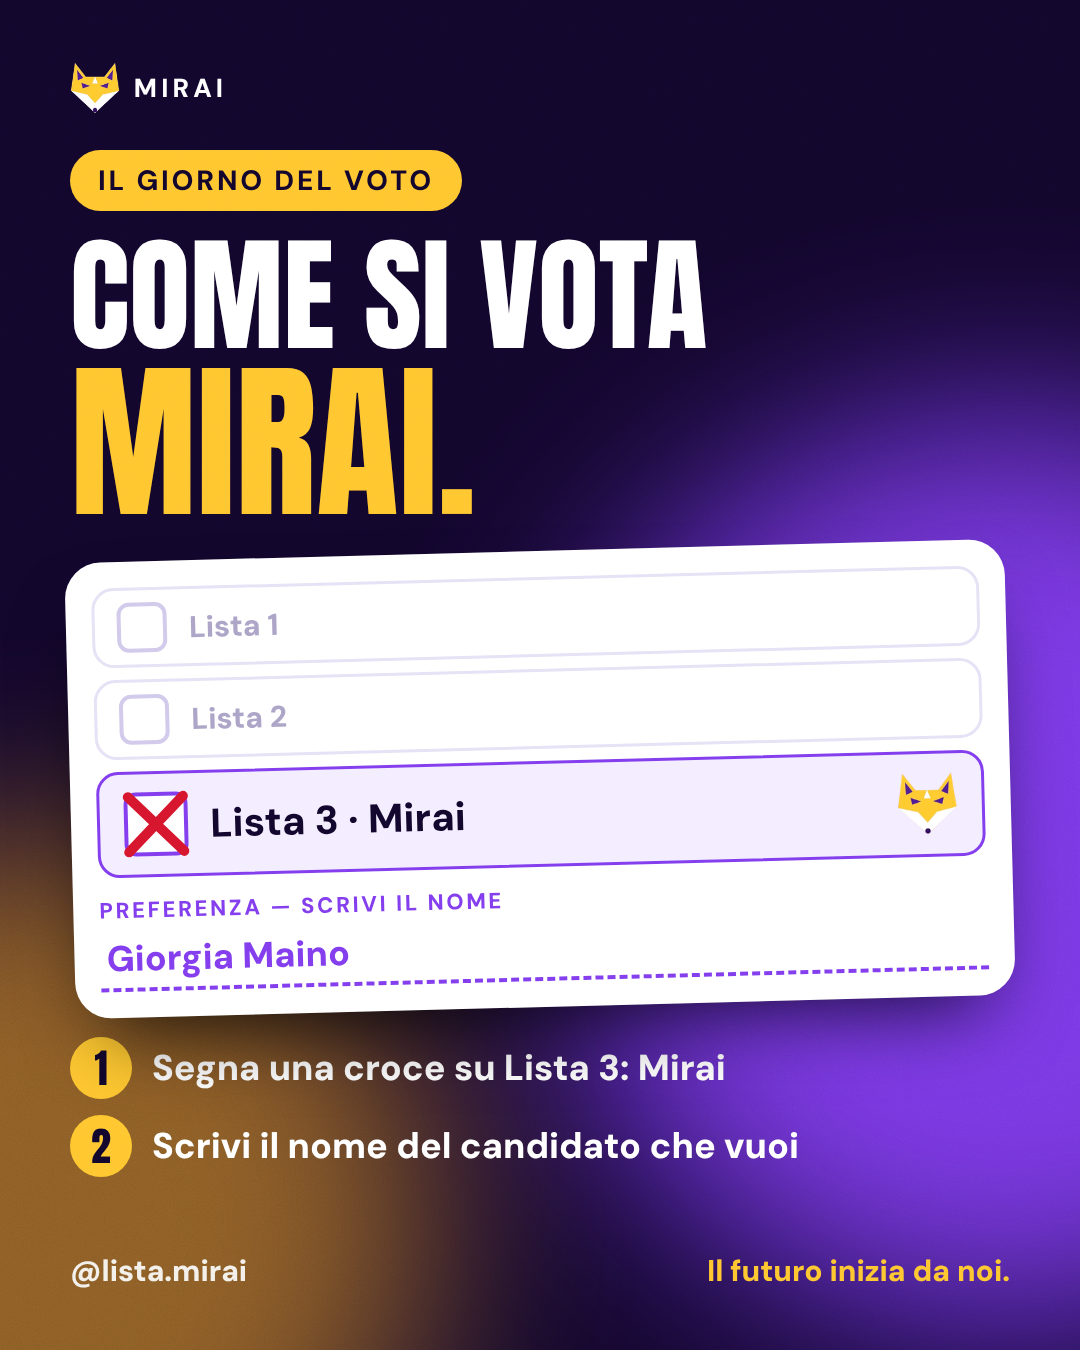
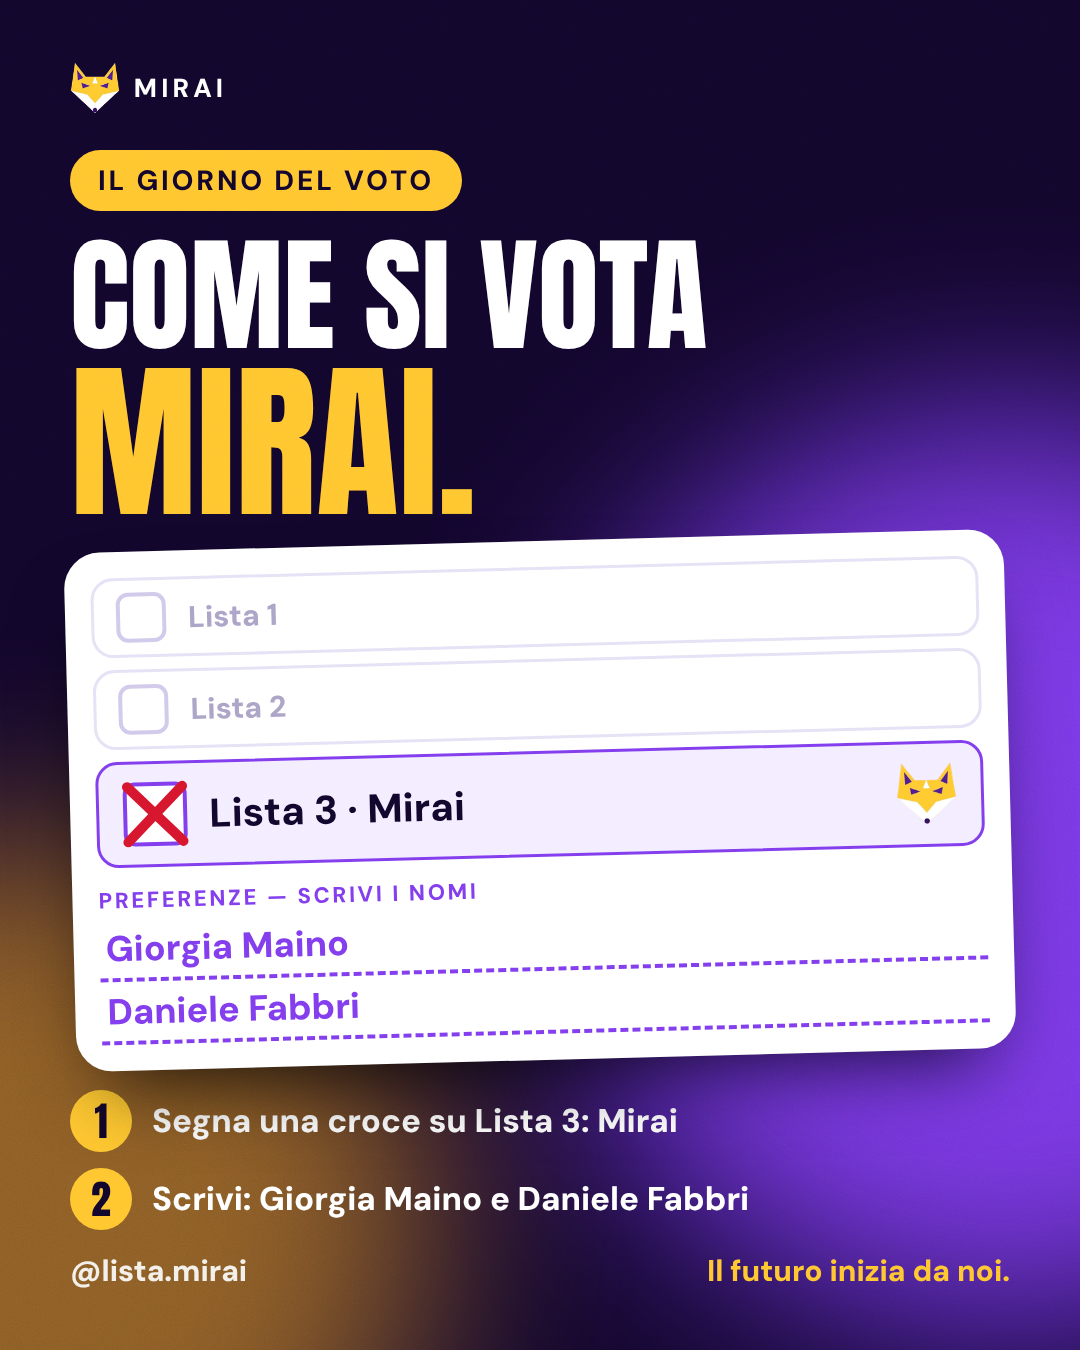
Social: voto con preferenze Giorgia Maino e Daniele Fabbri
Claude-Session: https://claude.ai/code/session_01GjWaSYZkqZzSe8a8dDrV6x

Changed region(s): [[0.0611, 0.3733, 0.9472, 0.9333]]

diff --git a/social/voto/voto.html b/social/voto/voto.html
@@ -43,7 +43,7 @@ body{background:#000;font-family:"DM Sans",sans-serif}
 .lab{font:800 22px "DM Sans";letter-spacing:.12em;text-transform:uppercase;color:#7c3aed;margin-top:18px}
 .num{display:inline-flex;width:62px;height:62px;border-radius:50%;background:var(--gold);color:var(--ink);font:400 40px/62px "Anton";justify-content:center;flex:none}
 .st{display:flex;align-items:center;gap:20px;font:800 36px/1.12 "DM Sans"}
-</style></head><body>
+#p0 .st{font-size:33px}#p0 .sheet{margin-top:20px!important}</style></head><body>
 
 
 <section class="c p v0" id="p0"><div class="blob b1"></div><div class="blob b2"></div>
@@ -55,11 +55,11 @@ body{background:#000;font-family:"DM Sans",sans-serif}
    <div class="row"><span class="box"></span>Lista 1</div>
    <div class="row"><span class="box"></span>Lista 2</div>
    <div class="row me"><span class="box"></span>Lista 3 · Mirai<img src="../../assets/fox-96.png" alt=""></div>
-   <div class="lab">Preferenza — scrivi il nome</div>
-   <div class="line">Giorgia Maino</div></div>
+   <div class="lab">Preferenze — scrivi i nomi</div>
+   <div class="line">Giorgia Maino</div><div class="line" style="margin-top:2px">Daniele Fabbri</div></div>
   <div style="display:flex;flex-direction:column;gap:16px;margin-top:30px">
    <div class="st"><span class="num">1</span>Segna una croce su Lista 3: Mirai</div>
-   <div class="st"><span class="num">2</span>Scrivi il nome del candidato che vuoi</div></div></div>
+   <div class="st"><span class="num">2</span>Scrivi: Giorgia Maino e Daniele Fabbri</div></div></div>
  <div class="handle"><span>@lista.mirai</span><b>Il futuro inizia da noi.</b></div>
 </section>
 
@@ -72,11 +72,11 @@ body{background:#000;font-family:"DM Sans",sans-serif}
    <div class="row"><span class="box"></span>Lista 1</div>
    <div class="row"><span class="box"></span>Lista 2</div>
    <div class="row me"><span class="box"></span>Lista 3 · Mirai<img src="../../assets/fox-96.png" alt=""></div>
-   <div class="lab">Preferenza — scrivi il nome</div>
-   <div class="line">Giorgia Maino</div></div>
+   <div class="lab">Preferenze — scrivi i nomi</div>
+   <div class="line">Giorgia Maino</div><div class="line" style="margin-top:2px">Daniele Fabbri</div></div>
   <div style="display:flex;flex-direction:column;gap:18px">
    <div class="st"><span class="num">1</span>Croce su Lista 3: Mirai</div>
-   <div class="st"><span class="num">2</span>Scrivi il nome di un candidato</div></div></div>
+   <div class="st"><span class="num">2</span>Scrivi Giorgia Maino e Daniele Fabbri</div></div></div>
  <div class="handle"><span>@lista.mirai</span><b>Il futuro inizia da noi.</b></div>
 </section>
 <script>document.fonts.ready.then(()=>{document.querySelectorAll('[data-max]').forEach(e=>{let s=+e.dataset.max;const box=+(e.dataset.box||940);e.style.fontSize=s+'px';e.style.display='table';if(e.parentElement.style.alignItems==='center'||e.parentElement.classList.contains('ctr')){e.style.marginLeft='auto';e.style.marginRight='auto'}const w=e.scrollWidth;if(w>box){s=Math.floor(s*box/w);e.style.fontSize=s+'px'}});document.body.dataset.ready=1})</script></body></html>
